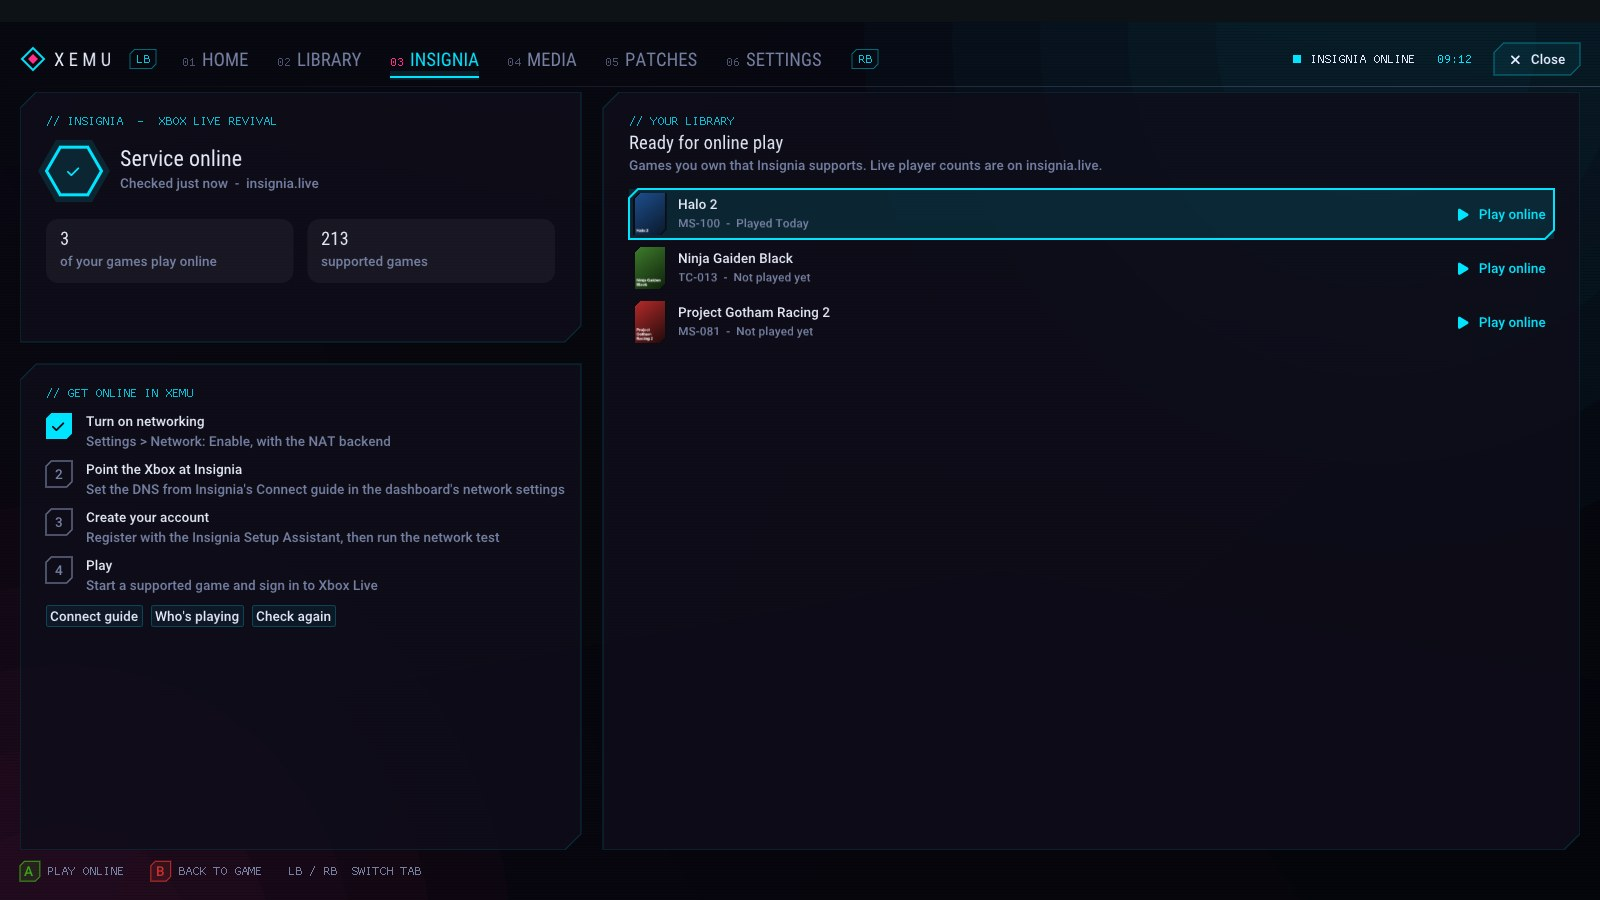
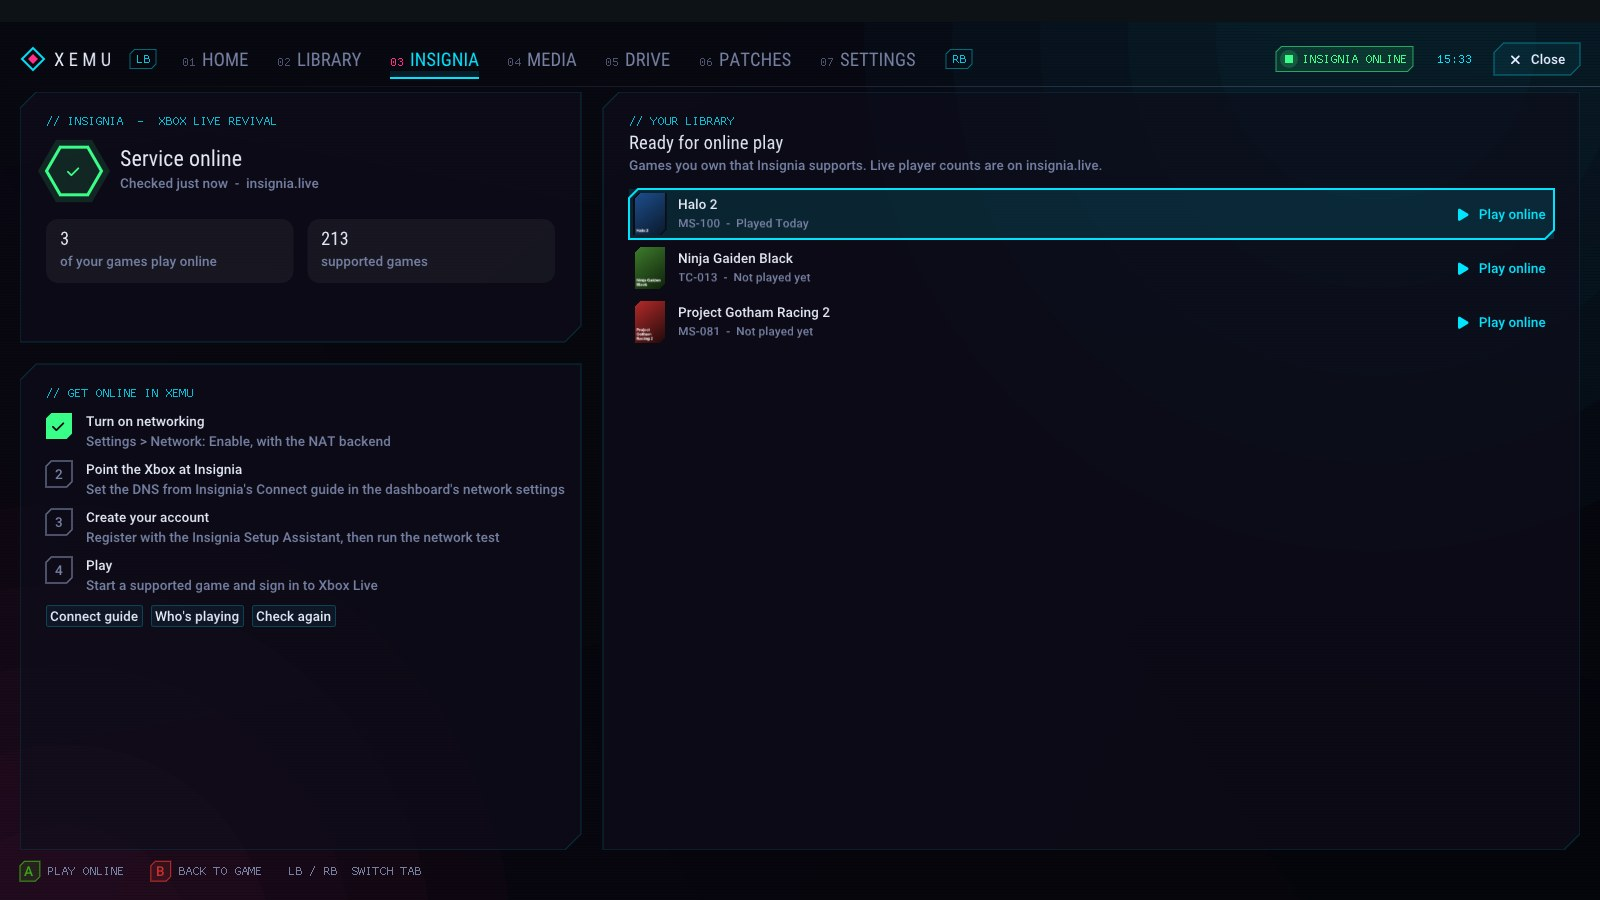
README: Update screenshots and version labels for v1.3
Fresh screenshots from the current build (Home with 3D covers, Library,
Insignia, the new Drive tab, Blades, Metro and Classic), and label the
new features as v1.3 to match the published releases.

Claude-Session: https://claude.ai/code/session_019Gr5W4qmmyCDZGv1HdNHkG

diff --git a/README.md b/README.md
@@ -13,13 +13,13 @@ quality-of-life features on top of the official release.
 
 ![Home tab, Neon theme](docs/screenshots/home.jpg)
 
-| Library | Insignia | Classic style |
+| Library | Insignia | Drive (hard drive explorer) |
 |---|---|---|
-| ![Library](docs/screenshots/library.jpg) | ![Insignia](docs/screenshots/insignia.jpg) | ![Classic](docs/screenshots/classic.jpg) |
+| ![Library](docs/screenshots/library.jpg) | ![Insignia](docs/screenshots/insignia.jpg) | ![Drive](docs/screenshots/drive.jpg) |
 
-| Blades style | Metro style |
-|---|---|
-| ![Blades](docs/screenshots/blades.jpg) | ![Metro](docs/screenshots/metro.jpg) |
+| Blades style | Metro style | Classic style |
+|---|---|---|
+| ![Blades](docs/screenshots/blades.jpg) | ![Metro](docs/screenshots/metro.jpg) | ![Classic](docs/screenshots/classic.jpg) |
 
 <sub>Screenshots use placeholder cover art.</sub>
 
@@ -39,15 +39,15 @@ shared.
   the game you're playing, with its cover, title ID, play time and an Insignia
   badge for online-capable games. Turn it off in Settings > General > Discord
   status. Requires the Discord app running on the same PC.
-- **New in v1.5: Blades and Metro styles.** Two more dashboard layouts:
+- **New in v1.3: Blades and Metro styles.** Two more dashboard layouts:
   sliding side-by-side panels, or slim XBMC4Gamers-style lists. Save states
   also get a right-click menu (load, delete, show file).
-- **New in v1.5: Xbox hard drive explorer.** A Drive tab to browse the
+- **New in v1.3: Xbox hard drive explorer.** A Drive tab to browse the
   emulated hard drive's C, E, F and X/Y/Z partitions and copy files and
   folders in and out, rename and delete (uses
   [libfatx](https://github.com/mborgerson/fatx)). Copying to the Xbox pauses
   it and restarts it afterwards.
-- **New in v1.5: 3D game cases.** Covers on the Home screen stand as 3D game
+- **New in v1.3: 3D game cases.** Covers on the Home screen stand as 3D game
   cases with a spine and a reflection, made from your existing covers. Use
   your own 3D box art by saving it as `covers\<title ID>-3d.png`, or switch
   back with Settings > Home screen covers. The Insignia status in the top bar
@@ -55,7 +55,7 @@ shared.
   upscaling, using the RTX Video Super Resolution built into NVIDIA's driver
   (RTX cards, with the feature turned on in the NVIDIA app), and **NVIDIA
   Image Scaling (NIS)** for any GPU.
-- **New in v1.4: motion.** The dashboard animates: flowing light ribbons, a
+- **New in v1.3: motion.** The dashboard animates: flowing light ribbons, a
   slowly turning wireframe orb and drifting specks in the background (plus a
   grid floor in Neon), content that sweeps in when you switch tabs, a tab
   highlight that glides, and a selection glow. Turn it off with
